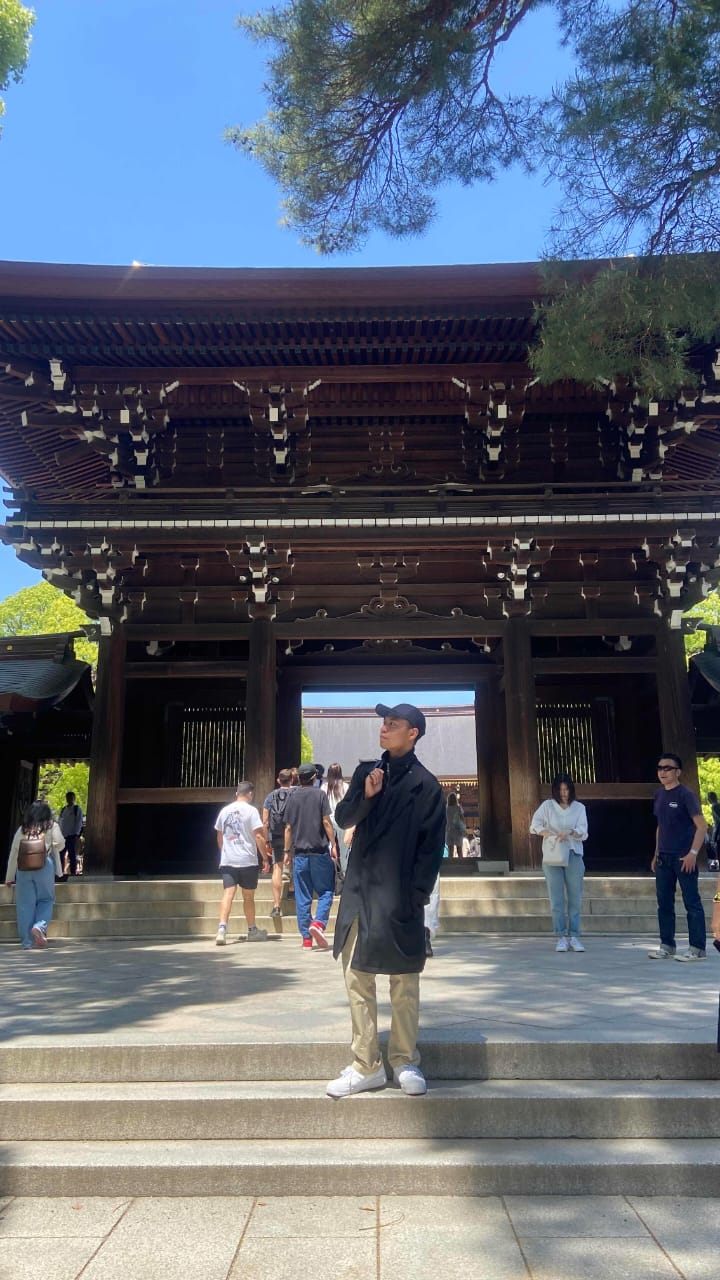
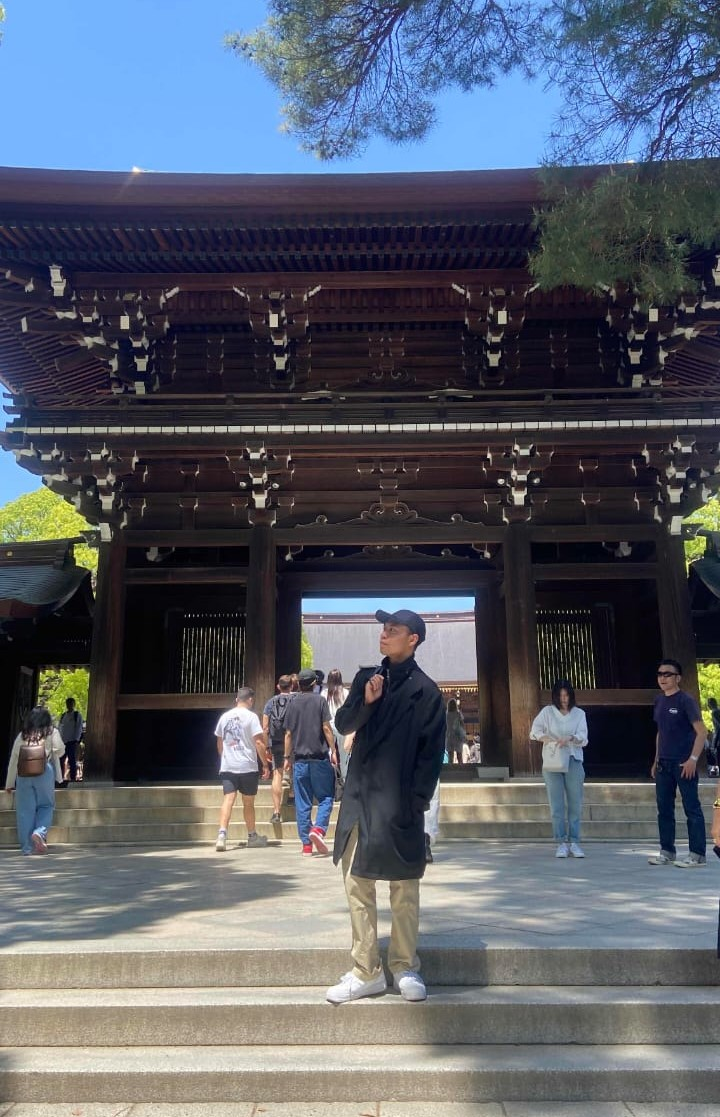
first commit2

diff --git a/index.html b/index.html
@@ -115,7 +115,7 @@
 
       @media (max-width: 600px) {
         h1 {
-          font-size: 1rem;
+          font-size: 1.4rem;
         }
 
         h2 {
